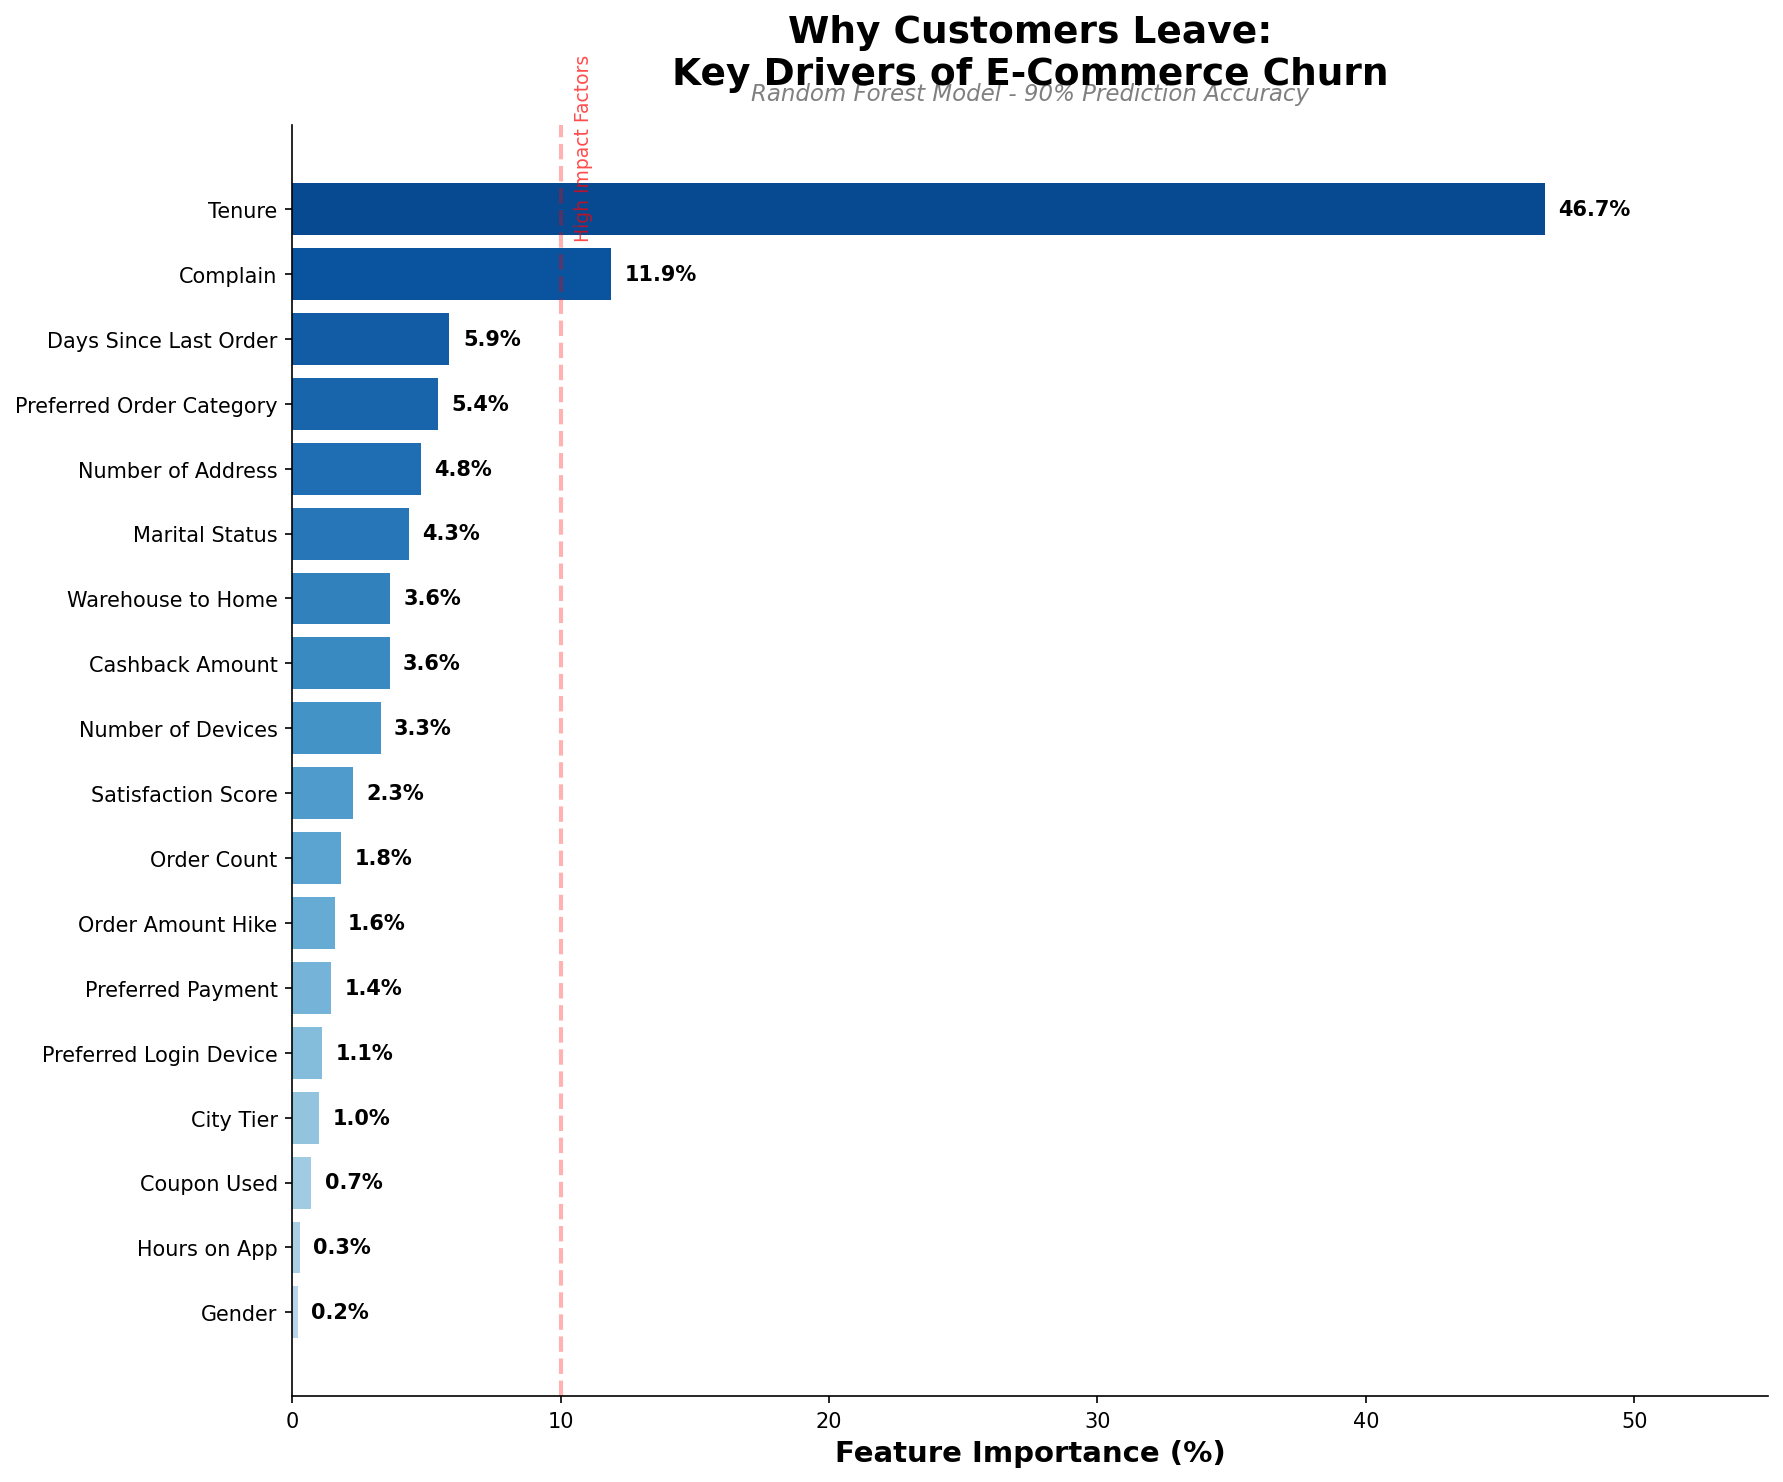
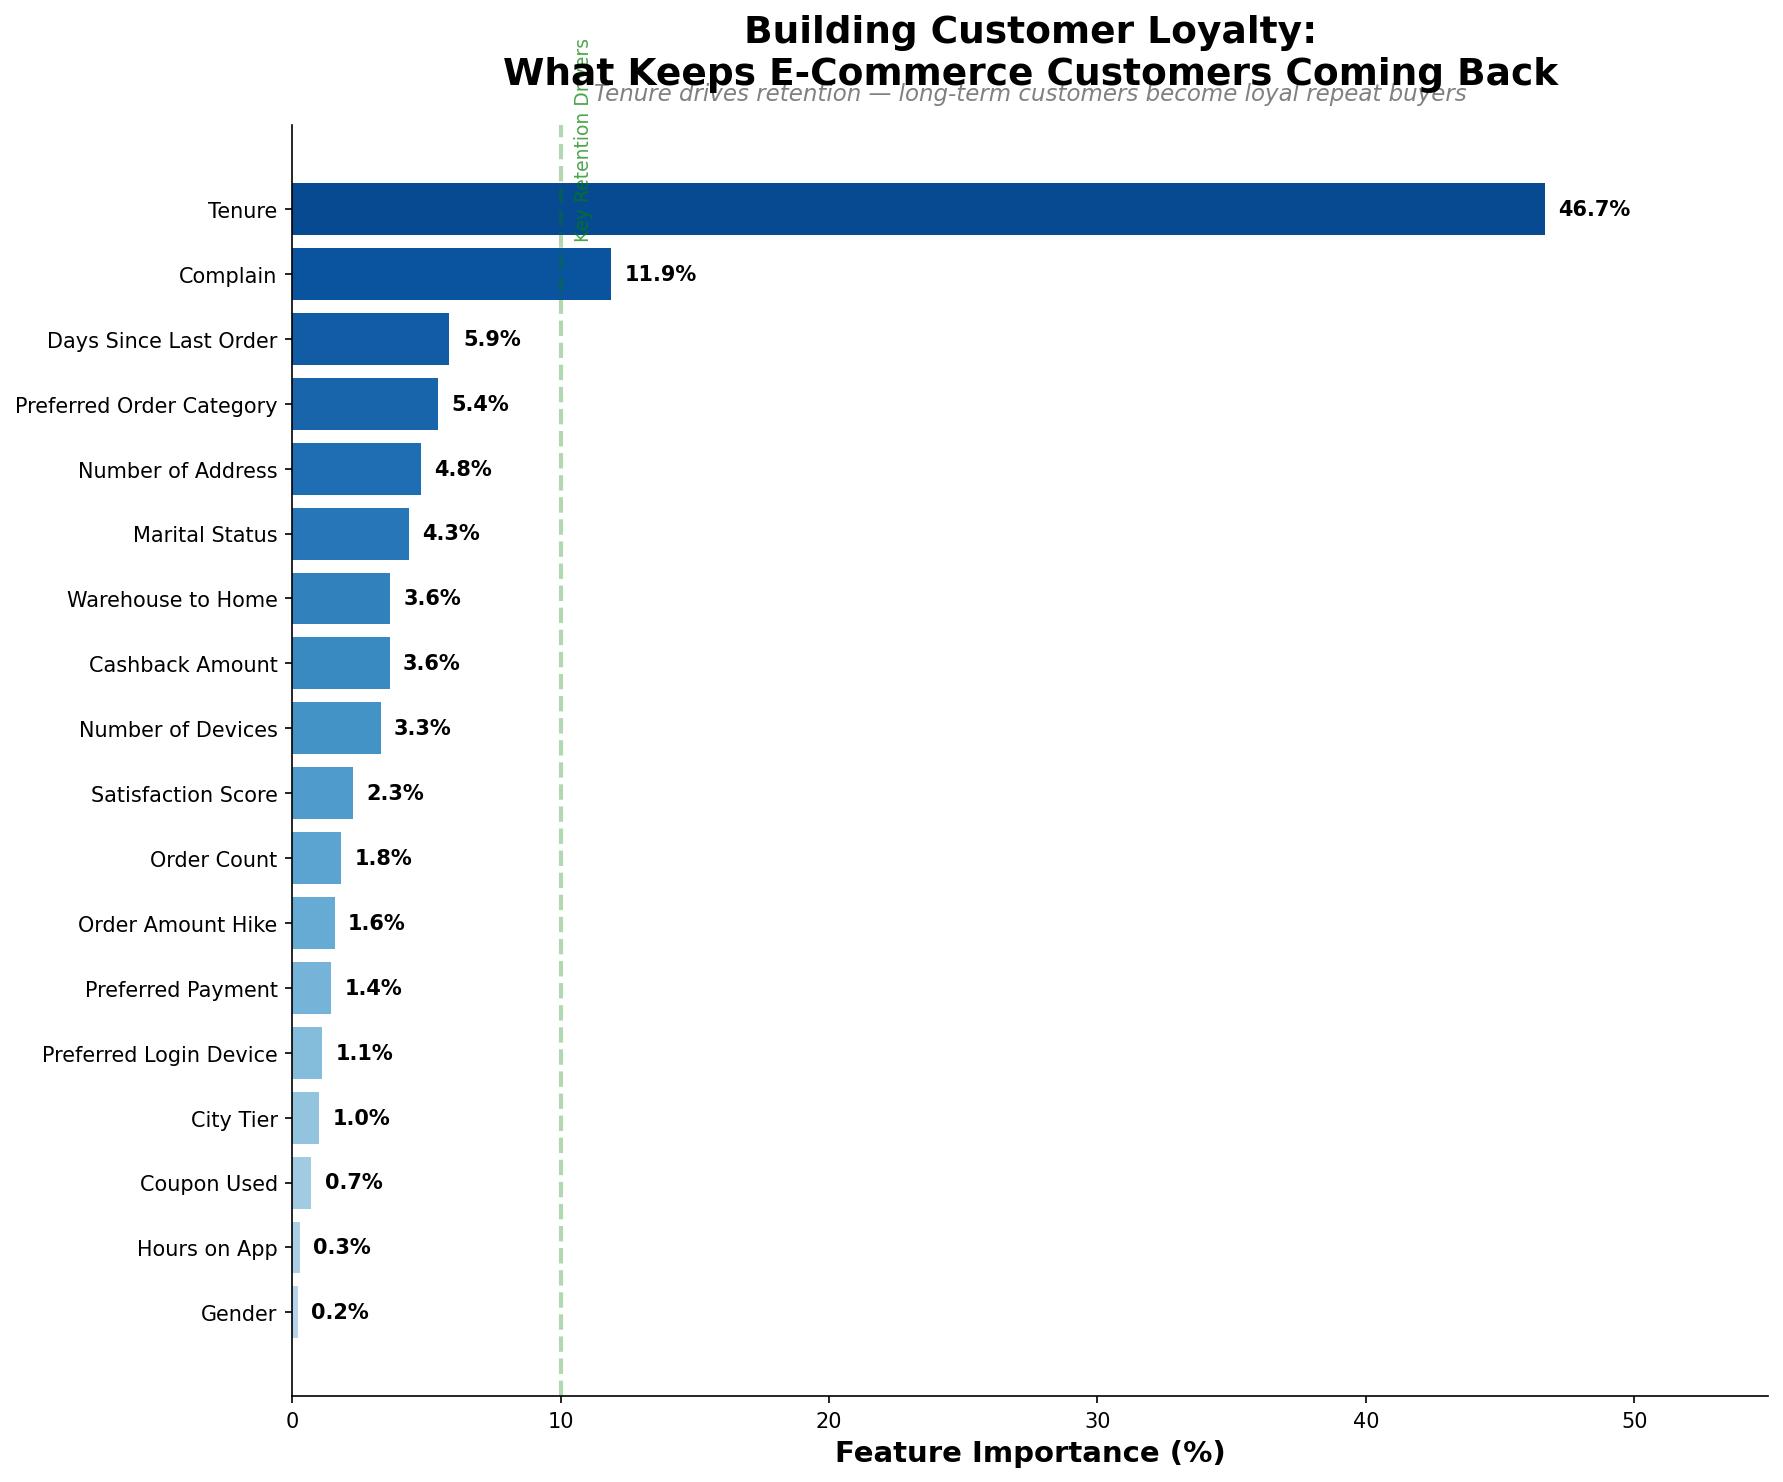
Reframe churn project as retention/loyalty opportunity

Changed region(s): [[0.2776, 0.0, 0.8946, 0.1552]]

diff --git a/src/app/page.tsx b/src/app/page.tsx
@@ -6,7 +6,7 @@ const projects = [
     category: "Machine Learning",
     title: "Predicting Customer Churn",
     description:
-      "Built a Random Forest classifier achieving 90% accuracy in predicting e-commerce customer churn. Analysis revealed that customer tenure explains 47% of churn, enabling proactive retention strategies.",
+      "Built a Random Forest classifier with 90% accuracy to predict e-commerce customer churn. Key insight: tenure is the #1 retention driver — long-term customers become loyal repeat buyers, revealing a clear opportunity for early engagement strategies.",
     github:
       "https://github.com/acorona1234/Predicting-Customer-Churn-in-an-Online-E-Commerce-Company-using-Random-Forest-Classifier",
     image: "/images/customer-churn.png",
